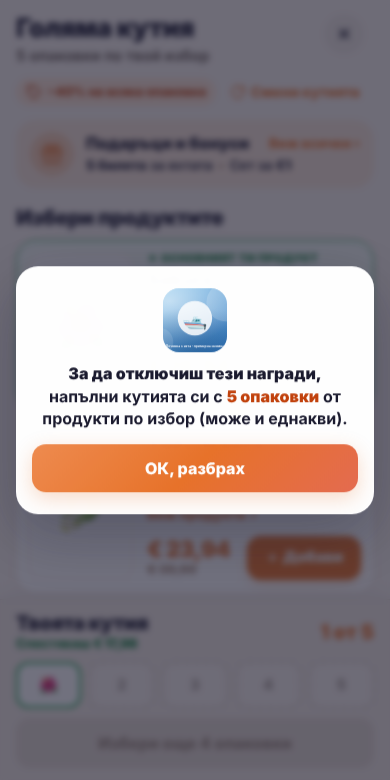
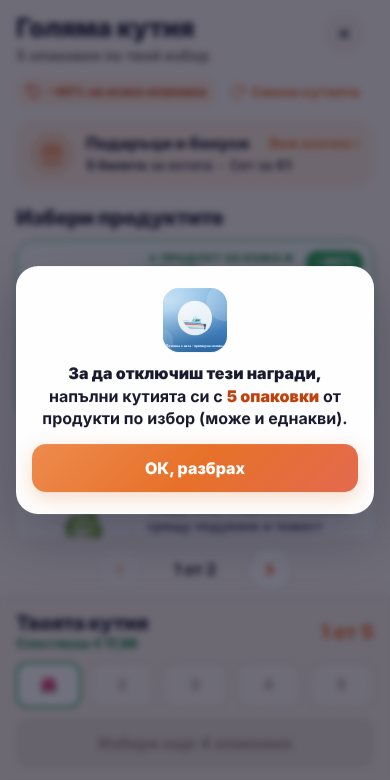
ansa™ Промо 1.0.23: телефон — бадж −40% на всяка карта, категория „Продукт за …“, пагинацията е винаги видима над футъра
Claude-Session: https://claude.ai/code/session_01QYRrz5kZ7ADygBZggt63PU

diff --git a/assets/promo-extra.css b/assets/promo-extra.css
@@ -411,11 +411,13 @@ body.ansa-promo-page{background:#faf3ec}
 .ansa-promo .dc.fpm .fcat.mrow.core{background:#fff;border-color:rgba(232,114,42,.35)}
 .ansa-promo .dc.fpm .fcat.mrow.on,.ansa-promo .dc.fpm .fcat.mrow.on:hover{border-color:var(--g);background:#f6fcf7}
 .ansa-promo .dc.fpm .fcat.mrow:hover{border-color:rgba(232,114,42,.10)}
-.ansa-promo .dc.fpm .mitem .fcat.mrow .fpct.mb,.ansa-promo .dc.fpm .fcat.mrow .fpct{display:none}
+.ansa-promo .dc.fpm .mitem .fcat.mrow .fpct.mb,.ansa-promo .dc.fpm .fcat.mrow .fpct.mb{display:inline-block;position:absolute;top:10px;right:10px;background:var(--o);color:#fff;font-size:12px;font-weight:900;padding:4px 9px;border-radius:999px;box-shadow:0 2px 6px rgba(232,114,42,.25);line-height:1.2;z-index:1}
+.ansa-promo .dc.fpm .fcat.mrow.on .fpct.mb{background:var(--g)}
 .ansa-promo .dc.fpm .mitem .mrow .pic,.ansa-promo .dc.fpm .mrow .pic{grid-row:1/3;grid-column:1;width:104px;height:100%;min-height:104px;border-radius:14px;align-self:stretch;margin:0;background:#fff;border:1px solid rgba(232,114,42,.12);font-size:44px;display:flex;align-items:center;justify-content:center}
 .ansa-promo .dc.fpm .mitem .mrow .pic img,.ansa-promo .dc.fpm .mrow .pic img{object-fit:contain;padding:4px}
 .ansa-promo .dc.fpm .mitem .mrow .ftx,.ansa-promo .dc.fpm .mrow .ftx{grid-row:1;grid-column:2;display:flex;flex-direction:column;gap:3px;min-width:0}
-.ansa-promo .dc.fpm .mitem .mrow .fct,.ansa-promo .dc.fpm .mrow .fct{display:block;font-size:10.5px;font-weight:900;letter-spacing:.06em;text-transform:uppercase;color:var(--gd);line-height:1.2;margin:0!important;padding:0!important;white-space:normal!important}
+.ansa-promo .dc.fpm .mitem .mrow .fct,.ansa-promo .dc.fpm .mrow .fct{display:block;font-size:10.5px;font-weight:900;letter-spacing:.06em;text-transform:uppercase;color:var(--od);line-height:1.2;margin:0!important;padding:0 58px 0 0!important;white-space:normal!important;overflow:visible!important;text-overflow:clip}
+.ansa-promo .dc.fpm .mrow.core .fct{color:var(--gd)}
 .ansa-promo .dc.fpm .mitem .mrow b,.ansa-promo .dc.fpm .mrow b{font-size:19px;font-weight:900;line-height:1.15;letter-spacing:-.01em;color:var(--ink)}
 .ansa-promo .dc.fpm .mitem .mrow small,.ansa-promo .dc.fpm .mrow small{font-size:13.5px;font-weight:600;line-height:1.3;color:var(--ink2);margin:0;display:-webkit-box;-webkit-line-clamp:2;-webkit-box-orient:vertical;overflow:hidden}
 .ansa-promo .dc.fpm .mitem .mrow .fmore,.ansa-promo .dc.fpm .mrow .fmore{align-self:flex-start;display:inline-flex;align-items:center;gap:1px;margin-top:4px;padding:3px 0;font-size:13.5px;font-weight:800;color:var(--o);text-decoration:none;background:none;border:none;font-family:inherit}
@@ -430,7 +432,7 @@ body.ansa-promo-page{background:#faf3ec}
 .ansa-promo .dc.fpm .mitem .mrow .stp button,.ansa-promo .dc.fpm .mrow .stp button{width:36px;height:36px;border-radius:11px;font-size:19px}
 .ansa-promo .dc.fpm .mrow .stp b{min-width:22px;font-size:16px}
 /* пагинация ‹ 1 от 2 › */
-.ansa-promo .dc.fpm .mpg{display:flex;align-items:center;justify-content:center;gap:28px;margin:auto 0 0;padding:6px 0 4px;flex:none}
+.ansa-promo .dc.fpm .mpg{display:flex;align-items:center;justify-content:center;gap:28px;margin:0;padding:8px 16px;flex:none;background:#f7f1ec;border-top:1px solid rgba(67,48,42,.06)}
 .ansa-promo .dc.fpm .mpgb{width:44px;height:44px;border-radius:50%;border:1.5px solid #e2d6cb;background:#fff;color:var(--o);font-size:24px;font-weight:900;display:flex;align-items:center;justify-content:center;box-shadow:0 1px 4px rgba(67,48,42,.05)}
 .ansa-promo .dc.fpm .mpgb:disabled{opacity:.35}
 .ansa-promo .dc.fpm .mpgd{display:none}

diff --git a/assets/promo.js b/assets/promo.js
@@ -276,6 +276,7 @@
       var iSw=sv+'<path d="M21 12a9 9 0 1 1-2.6-6.4"/><path d="M21 3v6h-6"/></svg>';
       var iGift=sv+'<path d="M20 12v10H4V12"/><path d="M2 7h20v5H2z"/><path d="M12 22V7"/><path d="M12 7H7.5a2.5 2.5 0 0 1 0-5C11 2 12 7 12 7z"/><path d="M12 7h4.5a2.5 2.5 0 0 0 0-5C13 2 12 7 12 7z"/></svg>';
       var iChev=sv+'<path d="m9 6 6 6-6 6"/></svg>';
+      var mcat=function(pr,r){var c=String(pr.cat||'').trim();return c?T('mfill.cat',{cat:esc(c.charAt(0).toLowerCase()+c.slice(1))}):esc(r.core?T('fill.cat.core'):r.t)};
       var gsum=[T('mfill.gs.tix',bv)].concat(main?[T(skey(main),bv)]:[]).join(' <i class="dot">•</i> ');
       var gall=b.rw.map(function(r){return '<span class="mfgi">'+rimg(r,/^tix/.test(r)?'🛥':RW(r).ic)+'<b'+ck(gkey(r))+'>'+T(gkey(r),bv)+'</b></span>'}).join('');
       body='<div class="mfs" id="mfS"><div class="mfh">'
@@ -285,8 +286,8 @@
         +'<div class="mfgh" id="mfGh" hidden>'+gall+'</div></div>'
         +'</div>'
         +'<h4 class="mfpk"'+ck('mfill.pick')+'>'+T('mfill.pick')+'</h4>'
-        +'<div class="mfl" id="mfL">'+rows.map(function(r,ri){var pr=PROD[r.key];return '<div class="mitem" data-pg="'+Math.floor(ri/3)+'"><div class="fcat mrow'+(r.core?' core':'')+'" data-nq="'+r.key+'"><span class="pic">'+pic(pr,'pimg')+'</span><div class="ftx">'+(r.core?'<em class="fct">'+T('mfill.core',{t:esc(r.t)})+'</em>':'')+'<b>'+esc(pr.name)+'</b><small>'+esc(r.why)+'</small><button class="fmore" data-more="'+r.key+'"'+ck('mfill.more')+'>'+T('mfill.more')+iChev+'</button></div><div class="fbar">'+fprice(pr,b)+'<div class="mact"><button class="madd" data-inc="'+r.key+'"'+ck('mfill.add')+'>'+T('mfill.add')+'</button><span class="stp"><button data-dec="'+r.key+'" aria-label="−">−</button><b data-q="'+r.key+'">0</b><button data-inc="'+r.key+'" aria-label="+">+</button></span></div></div></div></div>'}).join('')
-        +(rows.length>3?'<div class="mpg" id="mPg"></div>':'')+'</div></div>'
+        +'<div class="mfl" id="mfL">'+rows.map(function(r,ri){var pr=PROD[r.key];return '<div class="mitem" data-pg="'+Math.floor(ri/3)+'"><div class="fcat mrow'+(r.core?' core':'')+'" data-nq="'+r.key+'"><span class="fpct mb">−'+b.pct+'%</span><span class="pic">'+pic(pr,'pimg')+'</span><div class="ftx"><em class="fct"'+ck('mfill.cat')+'>'+(r.core?T('mfill.core',{t:mcat(pr,r)}):mcat(pr,r))+'</em><b>'+esc(pr.name)+'</b><small>'+esc(r.why)+'</small><button class="fmore" data-more="'+r.key+'"'+ck('mfill.more')+'>'+T('mfill.more')+iChev+'</button></div><div class="fbar">'+fprice(pr,b)+'<div class="mact"><button class="madd" data-inc="'+r.key+'"'+ck('mfill.add')+'>'+T('mfill.add')+'</button><span class="stp"><button data-dec="'+r.key+'" aria-label="−">−</button><b data-q="'+r.key+'">0</b><button data-inc="'+r.key+'" aria-label="+">+</button></span></div></div></div></div>'}).join('')
+        +'</div></div>'+(rows.length>3?'<div class="mpg" id="mPg"></div>':'')
         +'<div class="mff"><div class="mfft"><div class="mfftx"><b'+ck('mfill.box')+'>'+T('mfill.box')+'</b><div class="fsave" id="fSave"></div></div><span class="mffn" id="fSlotsN"></span></div><div class="fslots" id="fSlots"></div><button class="cta" id="nFill"></button></div>';
     }
     info(mob?'':T('fill.title'),body);var dc=$('apDc');dc.classList.add('fpw');if(mob)dc.classList.add('fpm');

diff --git a/ansa-promo.php b/ansa-promo.php
@@ -3,7 +3,7 @@
  * Plugin Name: ansa™ Промо
  * Plugin URI:  https://ansa.bg
  * Description: Промо играта на ansa™ (три кутии): страница [ansa_promo], визуален редактор на текстовете, количка и чекаут, дигитални билети. Самостоятелен плъгин — ansa™ Shrine остава за продуктовите страници.
- * Version:     1.0.22
+ * Version:     1.0.23
  * GitHub Plugin URI: proclaudecopilot/ansa-promo
  * Author:      ansa.bg
  * Text Domain: ansa-promo
@@ -15,7 +15,7 @@
 
 defined( 'ABSPATH' ) || exit;
 
-define( 'ANSA_PROMO_VER', '1.0.22' );
+define( 'ANSA_PROMO_VER', '1.0.23' );
 /* Същата стойност под второ име: ansa™ Shrine ≥ 6.19.22 проверява точно тази константа
    в includes/promo/bootstrap.php и НЕ зарежда своя (пенсиониран) промо модул, щом я види. */
 define( 'ANSA_PROMO_PLUGIN_VER', ANSA_PROMO_VER );

diff --git a/includes/class-copy.php b/includes/class-copy.php
@@ -183,6 +183,7 @@ final class Copy {
 				'mfill.save'         => 'Спестяваш <b>{{save}}</b>',
 				'mfill.save.zero'    => 'всяка опаковка е с −{{pct}}%',
 				'mfill.core'         => '★ {{t}}',
+				'mfill.cat'          => 'Продукт за {{cat}}',
 				'mfill.more'         => 'Виж продукта',
 				'mfill.add'          => '＋ Добави',
 			),

diff --git a/README.md b/README.md
@@ -40,7 +40,7 @@ docs/                        планът + мокъпът + port-css.py + shots
 | Фаза | Версия | Какво | Снипет |
 |------|--------|-------|--------|
 | 0 | 1.0.0 · 1.0.1 | репо, скелет, updater, таблици, guard в Shrine 6.19.22; 1.0.1 = LOGADOR updater 1.1.2 (поглъща форка на Partner) | `snippets/phase-0.php` — отчет за средата |
-| 1 | 1.0.2 … 1.0.22 | конфиг + копи-регистър + порт на мокъп v73 + gate/leads + runtime ajax; 1.0.3 = цял екран, WC снимки, бадж с цена, таб 📦 Продукти | `snippets/phase-1.php` |
+| 1 | 1.0.2 … 1.0.23 | конфиг + копи-регистър + порт на мокъп v73 + gate/leads + runtime ajax; 1.0.3 = цял екран, WC снимки, бадж с цена, таб 📦 Продукти | `snippets/phase-1.php` |
 | 2 | 1.0.3 | визуалният редактор | — |
 | 3 | 1.1.0 | количка и чекаут | — |
 | 4 | 1.2.0 | награди: билети, QR, REST, ваучер, книга | — |
@@ -98,5 +98,7 @@ docs/                        планът + мокъпът + port-css.py + shots
 **1.0.21 — висок телефон:** на 440×956 трите карти оставяха голяма празнина до футъра; сега всяка карта е центрирана в своята трета от списъка (`.mitem{flex:1 0 auto;justify-content:center}`), пагинацията е закотвена над футъра, при нисък екран списъкът скролва. promo-extra.css секция 16.
 
 **1.0.22 — „Напълни кутията си“ на телефон по инспирацията на човека:** пълноекранен лист на кремав фон (без 10px праг отгоре). Хедър: „Голяма кутия“ (26px, не с главни), „5 опаковки по твой избор“ (`mfill.sub`), бадж „−40% на всяка опаковка“ (`mfill.pct`, нов текст) и линк „Смени кутията“ (`mfill.sw`, иконата е SVG). Лента „Подаръци и бонуси“ (`mfill.gifts.t`) с резюме „5 билета за яхтата • Сет за €1“ и „Виж всички ›“ (`mfill.gifts.all` / `mfill.gifts.less`), което разгъва всички подаръци със снимки. Заглавие „Избери продуктите“ (`mfill.pick`). Картите са без категория и без бадж „−40%“ (отстъпката е в баджа на хедъра; само основният продукт пази „★ основният ти продукт“): снимка | име · описание (2 реда) · „Виж продукта ›“ (`mfill.more`) · голяма оранжева цена над зачертаната · плътен оранжев „+ Добави“ (степерът идва на негово място). Пагинация ‹ 1 от 2 › (`mfill.page`). Лепкав футър: „Твоята кутия“ (`mfill.box`) + „0 от 5“ вдясно (`fill.dots`, `#fSlotsN`), „Спестяваш €X“ дребно под заглавието само при избрани опаковки, пет слота на цял ред, бутон „Избери още N опаковки“. Хедърът скролва заедно със списъка (`.mfs`), футърът е винаги на екрана. Бутонът „Продължи“ под екрана (човекът го виждаше само при 75% zoom): листът вече е с изрична височина `100dvh` (не разчита на `bottom:0`), а `fitSheet()` в promo.js измерва след отваряне и при resize дали листът е излязъл от прозореца (ако някой родител с transform/zoom хване fixed-а) и го намества по отместъка и височината на прозореца. Офлайн: 360×740, 375×667, 390×844, 430×932 — футърът и бутонът са винаги видими, 0 грешки, 0 `{{ }}`. promo-extra.css секция 17 (надделява над 12/13/15/16).
+
+**1.0.23 — три забележки на човека от живия сайт:** (1) всяка карта има бадж „−40%“ горе вдясно (оранжев, зелен при избран продукт; категорията има padding-right, за да не влиза под него); (2) пагинацията „‹ 1 от 2 ›“ е извън скрол-зоната, закотвена над футъра и винаги видима — преди се скриваше под лепкавия футър и не личеше, че има втора страница; (3) всяка карта има категория „Продукт за {{cat}}“ (`mfill.cat`, нова променлива `{{cat}}` = полето „категория (селектор)“ на продукта от 📦 Продукти с малка първа буква: „Продукт за кожа и красота“, „Продукт за храносмилане“, „Продукт за хормони и менопауза“); без категория пада на заглавието на проблема; основният продукт е със „★“ и в зелено (`mfill.core`). promo-extra.css секция 17.
 
 **Въпроси (с дефолт, виж §9):** (P1) снимки — дефолт: снимката на WC продукта (поле `img` в продукта може да я замени с attachment id); (P1) арт за яхта/сет/книга — дефолт: емоджитата от мокъпа, сменяеми в ⚙ Двигател (Фаза 2).
